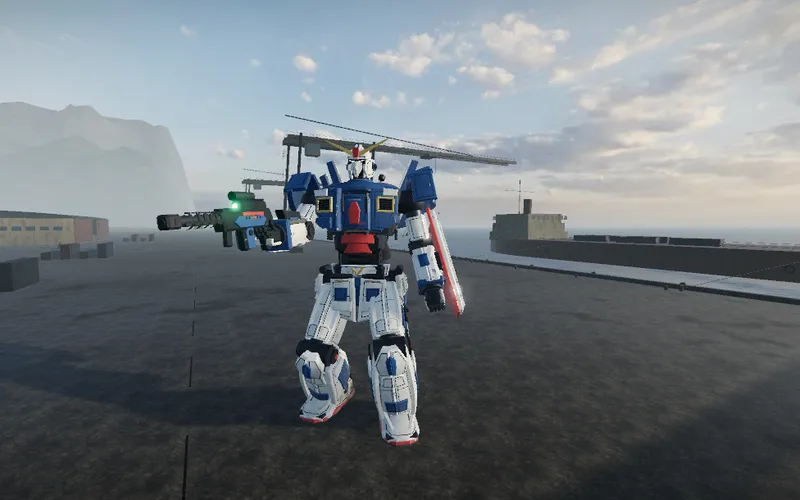
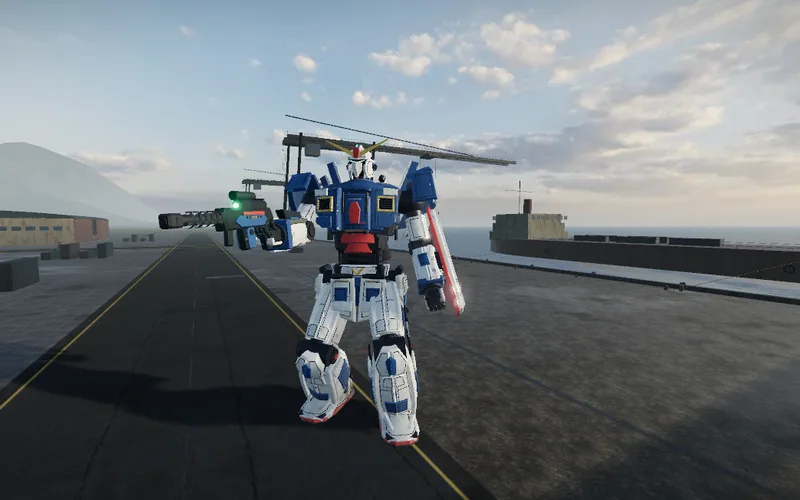
Improve harbor paving, warehouse scale and landscape materials

diff --git a/game/mech/lastline/map.js b/game/mech/lastline/map.js
@@ -6,7 +6,49 @@ import { JAPANESE_FONT, PORT_LABELS } from '../urban.js';
 
 export const SHORE = 680;
 export function buildMap(scene, mats, solid, PL, A, world) {
-  mats = { ...mats, portGlass: new THREE.MeshStandardMaterial({ color: 0x263c43, roughness: .26, metalness: .18, vertexColors: true }) };
+  // 港區地坪共用既有掃描圖；道路、排水與標線在同一個材質內，沒有反射攝影機。
+  const ground = mats.floor.clone(), compileFloor = mats.floor.onBeforeCompile;
+  ground.name = 'harbor-ground'; ground.userData.tile = mats.floor.userData.tile || 4;
+  ground.onBeforeCompile = sh => {
+    compileFloor(sh);
+    Object.assign(sh.uniforms, { portAsphalt: { value: A.asphD }, portAsphaltN: { value: A.asphN } });
+    sh.vertexShader = sh.vertexShader.replace('#include <common>', '#include <common>\nvarying vec2 vPort;')
+      .replace('#include <begin_vertex>', '#include <begin_vertex>\nvPort=(modelMatrix*vec4(transformed,1.0)).xz;');
+    sh.fragmentShader = sh.fragmentShader.replace('#include <common>', `#include <common>
+      varying vec2 vPort; uniform sampler2D portAsphalt, portAsphaltN;
+      float portLine(float d, float width) { float aa=max(fwidth(d),.001); return 1.0-smoothstep(width-aa,width+aa,d); }
+      float portRange(float x, float a, float b) { return smoothstep(a-.3,a+.3,x)*(1.0-smoothstep(b-.3,b+.3,x)); }`)
+      .replace('#include <map_fragment>', `#include <map_fragment>
+        float roadH=portLine(abs(vPort.y+120.0),12.0)*portRange(vPort.x,174.0,612.0);
+        float roadV=portLine(abs(vPort.x-360.0),12.0)*portRange(vPort.y,-120.0,120.0);
+        float roadExit=portLine(abs(vPort.x-600.0),12.0)*portRange(vPort.y,-580.0,290.0);
+        float roadCross=portLine(abs(vPort.y-120.0),12.0)*portRange(vPort.x,348.0,612.0);
+        float portRoad=max(max(roadH,roadV),max(roadExit,roadCross));
+        vec2 panel=mod(vPort+vec2(2.0,3.0),vec2(6.0,8.0));
+        float joint=max(portLine(min(panel.x,6.0-panel.x),.018),portLine(min(panel.y,8.0-panel.y),.018))*(1.0-portRoad);
+        vec3 pavement=mix(sampledDiffuseColor.rgb,texture2D(portAsphalt,vPort/7.0).rgb*vec3(.62,.65,.68),portRoad);
+        diffuseColor.rgb/=max(sampledDiffuseColor.rgb,vec3(.005));
+        diffuseColor.rgb*=pavement*(1.0-joint*.38);
+        float tyre=max(roadH*portLine(abs(abs(vPort.y+120.0)-3.2),.55),roadV*portLine(abs(abs(vPort.x-360.0)-3.2),.55));
+        tyre=max(tyre,max(roadExit*portLine(abs(abs(vPort.x-600.0)-3.2),.55),roadCross*portLine(abs(abs(vPort.y-120.0)-3.2),.55)));
+        diffuseColor.rgb*=1.0-tyre*.16;
+        // 岸邊長排水溝與鋼格柵；以實際尺寸繪製，遠處由導數抗鋸齒。
+        float drain=portLine(abs(vPort.x-623.0),.22);
+        float grate=portLine(abs(mod(vPort.y,.32)-.16),.025);
+        diffuseColor.rgb=mix(diffuseColor.rgb,vec3(.025,.032,.034),drain*(1.0-grate*.65));
+        float edge=max(roadExit*portLine(abs(abs(vPort.x-600.0)-10.8),.09),roadH*portLine(abs(abs(vPort.y+120.0)-10.8),.09));
+        vec2 bay=mod(vPort-vec2(215.0,-66.0),vec2(20.0,26.0));
+        float loading=portRange(vPort.x,215.0,525.0)*portRange(vPort.y,-66.0,64.0)*(1.0-portRoad);
+        float paint=max(edge,loading*max(portLine(min(bay.x,20.0-bay.x),.07),portLine(min(bay.y,26.0-bay.y),.07)));
+        diffuseColor.rgb=mix(diffuseColor.rgb,vec3(.43,.30,.07),paint*.75);`)
+      .replace('#include <roughnessmap_fragment>', `#include <roughnessmap_fragment>
+        roughnessFactor=mix(roughnessFactor,.91,portRoad);
+        roughnessFactor=mix(roughnessFactor,.82,paint);`)
+      .replace('vec3 mapN = texture2D( normalMap, vNormalMapUv ).xyz * 2.0 - 1.0;', `vec3 mapN = texture2D( normalMap, vNormalMapUv ).xyz * 2.0 - 1.0;
+        mapN=mix(mapN,texture2D(portAsphaltN,vPort/7.0).xyz*2.0-1.0,portRoad);`);
+  };
+  ground.customProgramCacheKey = () => 'harbor-ground-v1';
+  mats = { ...mats, portGround: ground, portGlass: new THREE.MeshStandardMaterial({ color: 0x263c43, roughness: .26, metalness: .18, vertexColors: true }) };
   const b = new Builder(mats, solid);
   const M = { b, lights: [], zones: {}, marks: {}, targets: {}, items: {}, layout: 'harbor-v1' };
   const V = (x, z, y = 0) => new THREE.Vector3(x, y, z);
@@ -124,12 +166,17 @@ export function buildMap(scene, mats, solid, PL, A, world) {
   // 港區地面取代住宅道路網；海側地形裁掉，露出同一片海面。
   if (world) {
     world.battlefield = 'harbor'; world.terrainMesh.material.userData.battlefield.value = 6;
-    const coast = x => { const t = THREE.MathUtils.clamp((x - 180) / (SHORE - 180), 0, 1); return 1 - t * t * (3 - 2 * t); };
+    const coast = (x, z) => {
+      // 遠方山麓逐步伸向海岸；不能把數公里外的整座山壓在 500 m 內，形成直立切面。
+      const start = 180 - 1800 * THREE.MathUtils.smoothstep(Math.abs(z), 650, 2100);
+      const t = THREE.MathUtils.clamp((x - start) / (SHORE - start), 0, 1);
+      return 1 - t * t * (3 - 2 * t);
+    };
     const height = world.height.bind(world);
-    world.height = (x, z) => x > SHORE ? -10 : height(x, z) * coast(x);
+    world.height = (x, z) => x > SHORE ? -10 : height(x, z) * coast(x, z) * .68;
     for (const mesh of [world.terrainMesh, world.mountainMesh]) {
       const p = mesh.geometry.attributes.position;
-      for (let i = 0; i < p.count; i++) p.setY(i, p.getY(i) * coast(p.getX(i)));
+      for (let i = 0; i < p.count; i++) p.setY(i, p.getY(i) * coast(p.getX(i), p.getZ(i)) * .68);
       p.needsUpdate = true; mesh.geometry.computeVertexNormals(); mesh.geometry.computeBoundingSphere();
     }
     const floor = solid.floorAt.bind(solid);
@@ -146,7 +193,7 @@ export function buildMap(scene, mats, solid, PL, A, world) {
     scene.environmentIntensity = .48;
     world.skyDome.material.uniforms.fogCol.value.copy(scene.fog.color);
   }
-  box('floor', -250, SHORE, -.18, .025, -590, 320, { solid: false });
+  b.B.portGround.quad([-250,.025,320], [SHORE,.025,320], [SHORE,.025,-590], [-250,.025,-590], [0,1,0]);
   // 海堤有厚度與潮痕，沒有穿越海面的隱形地板。
   box('concrete', SHORE - 1.2, SHORE, -4, .85, -590, 320, { tint: [.48, .53, .54] });
   const water = new THREE.MeshStandardMaterial({ color: 0x274a59, roughness: .32, metalness: .28,
@@ -187,10 +234,21 @@ export function buildMap(scene, mats, solid, PL, A, world) {
   }
   shed(-208, -152, -205, -130, 8, 'z', 3);
   shed(-149, -113, -122, -78, 6.2, 'x', 1.8);
-  for (const [x, z] of [[-197, -182], [-163, -170], [-195, -149], [-140, -89]]) {
-    prop('steel_frame_shelves_01', x, z);
-    for (const dx of [-1.4, 0, 1.4]) for (const y of [1, 2.1]) prop('cardboard_box_01', x + dx, z, y, .1 * dx, { solid: false });
+  for (const [x, z] of [[-197, -182], [-163, -170], [-195, -149], [-140, -89], [-197, -176], [-197, -170], [-162, -158], [-162, -149]]) {
+    // 掃描貨架原始高度 21.4 m，縮成 3 m；箱底對齊四層承板，避免穿屋頂與懸空。
+    prop('steel_frame_shelves_01', x, z, 0, 0, { scale: .14 });
+    for (const dx of [-.47, 0, .47]) for (const y of [.16, .87, 1.58, 2.29])
+      prop('cardboard_box_01', x + dx, z, y, .1 * dx, { solid: false, scale: .92 + ((y * 100 + x) % 3 + 3) % 3 * .06 });
     prop('wooden_military_crate', x + 2, z + 3); prop('hand_truck', x + 3, z - 1);
+  }
+  for (const z of [-191, -179, -167, -155, -143]) {
+    beam([-207,7.7,z],[-153,7.7,z],.11);
+    beam([-207,7.7,z],[-180,10.7,z],.07); beam([-180,10.7,z],[-153,7.7,z],.07);
+    for (const x of [-194,-166]) {
+      beam([x,7.7,z],[x,6.9,z],.018);
+      b.deco('metal',x-.65,x+.65,6.79,6.93,z-.11,z+.11,{tint:[.65,.67,.63]});
+      b.B.portGlass.quad([x-.6,6.78,z-.08],[x+.6,6.78,z-.08],[x+.6,6.78,z+.08],[x-.6,6.78,z+.08],[0,-1,0],[1,1,1,1],null,[1.8,1.9,1.7]);
+    }
   }
   prop('concrete_road_barrier_02', -177, -216); prop('covered_car', -158, -225, 0, .2);
   for (const [x, z] of [[-203, -192], [-156, -182], [-204, -143], [-90, -122], [-46, -92], [65, 56]]) {
@@ -268,8 +326,8 @@ export function buildMap(scene, mats, solid, PL, A, world) {
     b.deco('floor', x, x + 2 + i % 7, .031, .034, z, z + 1 + i % 4, { tint: [.65, .68, .69] });
   }
   for (const z of [-148, -92, 96, 144]) for (let x = 180; x < 580; x += 35) {
-    b.deco('metal', x, x + 22, .033, .036, z, z + .12, { tint: [.71, .58, .32] });
-    b.deco('metal', x, x + .12, .033, .036, z, z + 8, { tint: [.71, .58, .32] });
+    b.deco('floor', x, x + 22, .033, .036, z, z + .12, { tint: [.71, .58, .32] });
+    b.deco('floor', x, x + .12, .033, .036, z, z + 8, { tint: [.71, .58, .32] });
   }
   for (const z of [-240, -60, 210]) {
     // 兩腿落在道路外側，橫樑與斜拉桁架跨過岸邊。
@@ -318,8 +376,8 @@ export function buildMap(scene, mats, solid, PL, A, world) {
   }
 
   // 疏散路保留寬度給兩輛車；標線、岸邊護柱與防波堤消波塊都是共用材質。
-  for (let x = 190; x < 585; x += 14) b.deco('metal', x, x + 7, .03, .035, -120.06, -119.94, { tint: [.7, .72, .65] });
-  for (let z = -570; z < 280; z += 14) b.deco('metal', 599.94, 600.06, .03, .035, z, z + 7, { tint: [.7, .72, .65] });
+  for (let x = 190; x < 585; x += 14) b.deco('floor', x, x + 7, .03, .035, -120.06, -119.94, { tint: [.7, .72, .65] });
+  for (let z = -570; z < 280; z += 14) b.deco('floor', 599.94, 600.06, .03, .035, z, z + 7, { tint: [.7, .72, .65] });
   for (let z = -570; z < 280; z += 18) {
     pipe(676, 0, z, .3, .8, 'rust');
     const g = new THREE.CylinderGeometry(.6, 1.3, 5, 5).rotateZ(.8);

diff --git a/game/mech/env.js b/game/mech/env.js
@@ -376,8 +376,10 @@ function terrainMaterial(A) {
         float treeline = 0.0;
         if (mountain > 0.001) {
           float canopy = tn(vTW.xz / 8.0);
+          float facing = dot(terrainN.xz, normalize(vec2(-.6,.8))) * .5 + .5;
           vec3 forest = mix(vec3(0.038,0.072,0.028), vec3(0.10,0.145,0.048), macro);
-          forest *= mix(0.78, 1.22, canopy);
+          forest *= mix(0.72, 1.28, canopy) * mix(.78,1.12,facing);
+          forest = mix(forest,forest*vec3(1.2,1.08,.77),smoothstep(.52,.72,dry)*.35);
           float meadow = smoothstep(0.50, 0.72, dry) * (1.0 - smoothstep(0.08, 0.25, slope));
           forest = mix(forest, grass * vec3(0.62,0.72,0.42), meadow * 0.65);
           treeline = smoothstep(1050.0, 1580.0, vTW.y + (macro - 0.5) * 180.0);
@@ -394,6 +396,7 @@ function terrainMaterial(A) {
         // 冷灰岩壁、斜向岩層、雨水侵蝕紋；三面投影避免陡坡拉伸。
         float strata = sin(vTW.y * 0.095 + vTW.x * 0.018 + vTW.z * 0.012 + macro * 9.0) * 0.5 + 0.5;
         rock *= mix(vec3(0.42,0.46,0.49),vec3(.78,.81,.80),surfaceReady) * mix(0.90, 1.04, strata) * mix(0.86, 1.10, dry);
+        rock *= 1.0 - smoothstep(.48,.70,dry) * smoothstep(.12,.42,slope) * .15;
         float rk = smoothstep(0.20, 0.48, slope + (macro - 0.5) * 0.14 + treeline * 0.14);
         if (battlefield > 3.5 && battlefield < 4.5) grass = mix(grass, texture2D(rubD, vTW.xz / 14.0).rgb * vec3(0.85,0.63,0.40), 0.85);
         if (battlefield > 1.5 && battlefield < 2.5) grass *= vec3(0.65,0.83,0.64);
@@ -437,7 +440,8 @@ function terrainMaterial(A) {
         float roadWear = smoothstep(0.3, 0.7, dry);
         float paintWear = 0.55 + 0.45 * smoothstep(0.2, 0.7, tn(vTW.xz * 2.0));
         G.zw *= paintWear;
-        vec3 roadC = asph * (1.0 - min(wheel, 1.0) * 0.12);
+        float roadDamp = smoothstep(.48,.63,dry) * (1.0-smoothstep(.42,.62,macro));
+        vec3 roadC = asph * (1.0 - min(wheel, 1.0) * 0.12) * (1.0-roadDamp*.14);
         roadC = mix(roadC, vec3(0.62), G.z * 0.85 * (0.75 + 0.25 * tn(vTW.xz * 3.0)));
         roadC = mix(roadC, vec3(0.62, 0.45, 0.10), G.w * 0.8);
         base = mix(base, roadC, G.x);
@@ -456,6 +460,7 @@ function terrainMaterial(A) {
         roughnessFactor = mix(0.72 + rA * 0.28, mix(rG, 0.82 + strata * 0.12, rk), isGrass);
         roughnessFactor = mix(roughnessFactor, 0.46 + roadWear * 0.18, G.x * min(wheel, 1.0) * 0.7);
         roughnessFactor = mix(roughnessFactor, 0.55, G.z * 0.6);
+        roughnessFactor = mix(roughnessFactor,.32,roadDamp*G.x*.65);
       `)
       .replace('vec3 mapN = texture2D( normalMap, vNormalMapUv ).xyz * 2.0 - 1.0;', `
         vec3 nG = texture2D( normalMap, vNormalMapUv ).xyz * 2.0 - 1.0;
@@ -484,7 +489,7 @@ function terrainMaterial(A) {
       .replace('#include <fog_fragment>', `#include <fog_fragment>
         #ifdef USE_FOG
           // 高處仍有空氣散射：補足高度霧在山頂過薄、遠近山黏在一起的問題。
-          float mountainAir = (1.0 - exp(-length(vTW - cameraPosition) * (battlefield > .5 ? .000045 : .000095))) * mountain;
+          float mountainAir = (1.0 - exp(-max(0.0,length(vTW - cameraPosition)-1800.0) * .00007)) * mountain;
           vec3 air = mix(vec3(0.43,0.51,0.59), FOG_SUN_COL, pow(max(dot(normalize(vTW - cameraPosition), FOG_SUN_DIR),0.0),7.0) * 0.55);
           gl_FragColor.rgb = mix(gl_FragColor.rgb, air, mountainAir);
         #endif`);

diff --git a/game/mech/dev/review.js b/game/mech/dev/review.js
@@ -15,7 +15,7 @@ async function load(path, query = '') {
   html = html.replace(/<base href="[^"]+">/, '');
   html = html.replace(/(<script type="importmap">)([\s\S]*?)(<\/script>)/, (_, a, json, b) => {
     const map = JSON.parse(json);
-    for (const file of ['urban.js', 'anim.js', 'env.js', 'stages.js', 'battlefields.js', 'fieldart.js', 'encounter.js', 'post.js', 'roofline.js', 'mechs.js', 'combat.js', 'cockpit.js', 'zero/map.js', 'zero/guns.js', 'zero/viewmodel.js', 'zero/main.js', 'zero/hud.js', 'zero/sfx.js', 'zero/mech6.js', 'lastline/map.js', 'lastline/script.js', 'lastline/mission.js', 'lastline/convoy.js', 'lastline/escort.mjs']) {
+    for (const file of ['urban.js', 'anim.js', 'env.js', 'stages.js', 'battlefields.js', 'fieldart.js', 'encounter.js', 'post.js', 'roofline.js', 'mechs.js', 'combat.js', 'cockpit.js', 'zero/kit.js', 'zero/map.js', 'zero/guns.js', 'zero/viewmodel.js', 'zero/main.js', 'zero/hud.js', 'zero/sfx.js', 'zero/mech6.js', 'lastline/map.js', 'lastline/script.js', 'lastline/mission.js', 'lastline/convoy.js', 'lastline/escort.mjs']) {
       const url = new URL('/game/mech/' + file, location.href).href;
       for (const key of Object.keys(map.imports)) if (new URL(key, entryBase).href === url) delete map.imports[key];
       map.imports[url] = url + '?qa=' + revision;
@@ -606,8 +606,13 @@ async function harborArt() {
   await load('/game/mech/lastline/index.html', '?mute&god&ch=1&all&fps=0');
   renderer = win.__renderer; post = { render: () => win.__step(1) };
   win.__G.player.reset(new win.__T.Vector3(-180, 0, -193), 0); win.__step(3);
+  const map=win.__map, shelves=win.__solid.list.filter(b=>b.x0<-130 && b.y1>2.8 && b.y1<3.2 && b.x1-b.x0<2 && b.z1-b.z0<1);
+  assert(shelves.length===8,'八座港區貨架為三公尺高，貨箱落在承板上');
+  assert(map.triangles<120000 && map.meshes.length<=9,'港區合併幾何維持十二萬三角形，至多九個材質網格');
   await save('lastline-customs', true);
+  const footChecks=[...result];
   await load('/game/mech/lastline/index.html', '?mute&ch=4&all&fps=0'); await wait(() => win.__m6); win.__step(200);
+  result.unshift(...footChecks);
   const M = win.__m6, C = M.combat, camera = C.camera, world = win.__world;
   renderer = win.__renderer; post = { render: () => C.post.render(1) };
   M.player.pos.set(610, 0, 90); M.player.yaw = -.6; M.player.vel.set(0, 0, 0); M.hero.legYaw = M.player.yaw; M.hero.motion.yawPrev = null; M.tick(.016);
@@ -618,7 +623,7 @@ async function harborArt() {
   camera.position.set(550, 36, -300); camera.lookAt(650, 14, -450); world.followShadow(camera.position);
   await save('lastline-breakwater', true);
   assert(errors.length === 0, '海關、港區與防波堤實際畫面沒有渲染錯誤');
-  report.textContent = JSON.stringify({ checks: result, memory: renderer.info.memory, errors }, null, 2); state.textContent = '北濱港美術通過';
+  report.textContent = JSON.stringify({ checks: result, staticTriangles:map.triangles, staticMeshes:map.meshes.length, memory: renderer.info.memory, errors }, null, 2); state.textContent = '北濱港美術通過';
 }
 
 async function japaneseSigns() {

diff --git a/game/mech/lastline/index.html b/game/mech/lastline/index.html
@@ -66,7 +66,7 @@
   @media (max-height:720px) { .logo{font-size:clamp(38px,7vw,72px)} #bar{margin-top:20px} .keys{margin-top:18px} .note{margin-top:14px} }
   @media (max-width:560px) { .keys{font-size:11px;gap:5px 10px;margin-top:15px} .campaign-panel{padding:12px} .campaign-card{padding:20px} }
 </style>
-<script type="importmap">{"imports":{"../urban.js":"../urban.js?v=4","three":"../../lib/three.module.js","three/addons/":"../../lib/addons/","../roofline.js":"../roofline.js?v=2","../env.js":"../env.js?v=11","../battlefields.js":"../battlefields.js?v=4","../fieldart.js":"../fieldart.js?v=3","../encounter.js":"../encounter.js?v=2","./mech6.js":"./mech6.js?v=5","../anim.js":"../anim.js?v=2","../combat.js":"../combat.js?v=3","../tactics.js":"../tactics.js?v=2","./map.js":"./map.js?v=4","./ai.js":"./ai.js?v=2","../lastline/map.js":"../lastline/map.js?v=1","../lastline/script.js":"../lastline/script.js?v=3","../lastline/mission.js":"../lastline/mission.js?v=3","../lastline/convoy.js":"../lastline/convoy.js?v=2","../lastline/escort.mjs":"../lastline/escort.mjs?v=3"}}</script>
+<script type="importmap">{"imports":{"../urban.js":"../urban.js?v=4","three":"../../lib/three.module.js","three/addons/":"../../lib/addons/","../roofline.js":"../roofline.js?v=2","../env.js":"../env.js?v=12","../battlefields.js":"../battlefields.js?v=4","../fieldart.js":"../fieldart.js?v=3","../encounter.js":"../encounter.js?v=2","./mech6.js":"./mech6.js?v=6","../anim.js":"../anim.js?v=2","../combat.js":"../combat.js?v=3","../tactics.js":"../tactics.js?v=2","./kit.js":"./kit.js?v=2","./map.js":"./map.js?v=4","./ai.js":"./ai.js?v=2","../lastline/map.js":"../lastline/map.js?v=2","../lastline/script.js":"../lastline/script.js?v=3","../lastline/mission.js":"../lastline/mission.js?v=3","../lastline/convoy.js":"../lastline/convoy.js?v=2","../lastline/escort.mjs":"../lastline/escort.mjs?v=3"}}</script>
 </head>
 <body data-campaign="lastline">
 <canvas id="gl"></canvas>

diff --git a/game/mech/zero/kit.js b/game/mech/zero/kit.js
@@ -89,7 +89,7 @@ export function grimeShader(sh, m) {
     #endif
     vGW = ( modelMatrix * gw ).xyz; vGN = mat3( modelMatrix ) * gn;`);
   sh.fragmentShader = sh.fragmentShader.replace('#include <common>', '#include <common>\nuniform sampler2D grimeMap; uniform float grimeK; varying vec3 vGW; varying vec3 vGN;').replace('#include <map_fragment>', `#include <map_fragment>
-    float surfaceDirt = 0.0;
+    float surfaceDirt = 0.0, surfaceWet = 0.0;
     {
       vec3 gn = normalize( vGN ); float wallK = 1.0 - abs( gn.y );
       float al = abs( gn.x ) > abs( gn.z ) ? vGW.z : vGW.x;
@@ -98,9 +98,12 @@ export function grimeShader(sh, m) {
       float st = texture2D( grimeMap, vec2( al * 0.035, vGW.y * 0.06 ) ).g;
       float d = ( 0.52 - mac ) * 0.55 + wallK * smoothstep( 0.52, 0.8, st ) * 0.42 + smoothstep( 0.56, 0.8, bl ) * 0.3;
       surfaceDirt = clamp(d * grimeK, 0.0, 0.65);
+      // 掃描材質上的薄水膜與灰塵交錯，不將整片地面變成鏡子。
+      surfaceWet = (1.0-wallK) * smoothstep(.54,.68,mac) * (1.0-smoothstep(.48,.62,bl));
       diffuseColor.rgb *= clamp( 1.0 - grimeK * d * vec3( 0.88, 1.0, 1.14 ), 0.25, 1.3 );
     }`).replace('#include <roughnessmap_fragment>', `#include <roughnessmap_fragment>
-      roughnessFactor = clamp(roughnessFactor + surfaceDirt * 0.2, 0.08, 1.0);`);
+      roughnessFactor = clamp(roughnessFactor + surfaceDirt * 0.2, 0.08, 1.0);
+      roughnessFactor = mix(roughnessFactor, max(.32,roughnessFactor*.55),surfaceWet*.55);`);
 }
 
 // ---------------------------------------------------------------- 合併幾何

diff --git a/game/mech/zero/index.html b/game/mech/zero/index.html
@@ -53,7 +53,7 @@
   #touch .tb { position: absolute; width: 64px; height: 64px; border-radius: 50%; border: 1px solid rgba(127,243,255,0.5); background: rgba(5,15,20,0.35); color: #cfeff5; font: 600 13px 'Rajdhani', 'Noto Sans TC'; display: flex; align-items: center; justify-content: center; pointer-events: auto; }
   #touch .look { position: absolute; right: 0; top: 0; width: 55%; height: 100%; pointer-events: auto; }
 </style>
-<script type="importmap">{"imports":{"../urban.js":"../urban.js?v=4","three":"../../lib/three.module.js","three/addons/":"../../lib/addons/","../roofline.js":"../roofline.js?v=2","../env.js":"../env.js?v=11","../battlefields.js":"../battlefields.js?v=4","../fieldart.js":"../fieldart.js?v=3","../encounter.js":"../encounter.js?v=2","./mech6.js":"./mech6.js?v=5","../anim.js":"../anim.js?v=2","../combat.js":"../combat.js?v=3","../tactics.js":"../tactics.js?v=2","./map.js":"./map.js?v=4","./ai.js":"./ai.js?v=2"}}</script>
+<script type="importmap">{"imports":{"../urban.js":"../urban.js?v=4","three":"../../lib/three.module.js","three/addons/":"../../lib/addons/","../roofline.js":"../roofline.js?v=2","../env.js":"../env.js?v=12","../battlefields.js":"../battlefields.js?v=4","../fieldart.js":"../fieldart.js?v=3","../encounter.js":"../encounter.js?v=2","./mech6.js":"./mech6.js?v=6","../anim.js":"../anim.js?v=2","../combat.js":"../combat.js?v=3","../tactics.js":"../tactics.js?v=2","./kit.js":"./kit.js?v=2","./map.js":"./map.js?v=4","./ai.js":"./ai.js?v=2"}}</script>
 </head>
 <body>
 <canvas id="gl"></canvas>

diff --git a/game/mech/index.html b/game/mech/index.html
@@ -55,7 +55,7 @@
   #touch .tb { position: absolute; width: 64px; height: 64px; border-radius: 50%; border: 1px solid rgba(127,243,255,0.5); background: rgba(5,15,20,0.35); color: #cfeff5; font: 600 13px 'Rajdhani', 'Noto Sans TC'; display: flex; align-items: center; justify-content: center; pointer-events: auto; }
   #touch .look { position: absolute; right: 0; top: 0; width: 55%; height: 100%; pointer-events: auto; }
 </style>
-<script type="importmap">{"imports":{"./urban.js":"./urban.js?v=4","three":"../lib/three.module.js","three/addons/":"../lib/addons/","./roofline.js":"./roofline.js?v=2","./env.js":"./env.js?v=11","./battlefields.js":"./battlefields.js?v=4","./fieldart.js":"./fieldart.js?v=3","./encounter.js":"./encounter.js?v=2","./anim.js":"./anim.js?v=2","./combat.js":"./combat.js?v=3","./tactics.js":"./tactics.js?v=2","./stages.js":"./stages.js?v=2"}}</script>
+<script type="importmap">{"imports":{"./urban.js":"./urban.js?v=4","three":"../lib/three.module.js","three/addons/":"../lib/addons/","./roofline.js":"./roofline.js?v=2","./env.js":"./env.js?v=12","./battlefields.js":"./battlefields.js?v=4","./fieldart.js":"./fieldart.js?v=3","./encounter.js":"./encounter.js?v=2","./anim.js":"./anim.js?v=2","./combat.js":"./combat.js?v=3","./tactics.js":"./tactics.js?v=2","./stages.js":"./stages.js?v=2"}}</script>
 </head>
 <body>
 <canvas id="gl"></canvas>

diff --git a/game/mech/dev/review.html b/game/mech/dev/review.html
@@ -4,4 +4,4 @@
 <header><b>IRON DUSK · 靜音回歸</b><button id="japaneseSigns">日文招牌</button><button id="harborArt">北濱港場景</button><button id="campaignFoot">續作步兵全流程</button><button id="campaign4">續作車隊全流程</button><button id="campaign5">續作結局</button><button id="campaignArtillery">砲陣結局</button><button id="campaignEdges">存檔與戰敗</button><button id="enemyMotion">敵機重量與動作</button><button id="fields">六種戰鬥場地</button><button id="mech">本篇 10 關</button><button id="zero">前傳 6 章</button><button id="tactics">機甲戰術與劇情</button><button id="infantry">步兵戰術</button><button id="art">人物與機甲</button><button id="hero">主角機</button><button id="city">城市街景</button><button id="mountains">城市山景</button><button id="weapons">前傳武器</button><button id="save">保存畫面</button><span id="state">待命</span></header>
 <iframe id="game" title="靜音遊戲測試"></iframe><div id="captures"></div><pre id="report"></pre>
 <script type="importmap">{"imports":{"three":"../../lib/three.module.js","three/addons/":"../../lib/addons/"}}</script>
-<script type="module" src="./review.js?v=18"></script></html>
+<script type="module" src="./review.js?v=19"></script></html>

diff --git a/games/index.html b/games/index.html
@@ -207,7 +207,7 @@ a:focus-visible{outline:3px solid #ffd84f;outline-offset:3px}
         </section>
         <section class="ep lastline">
           <a class="thumb" href="/game/mech/lastline/" tabindex="-1" aria-hidden="true">
-            <img src="/games/img/iron-dusk-lastline.webp" width="800" height="500" alt="" loading="lazy">
+            <img src="/games/img/iron-dusk-lastline.webp?v=2" width="800" height="500" alt="" loading="lazy">
             <span class="step"><b>3</b>LAST LINE</span>
             <span class="tag"><span class="lang-en">Infantry + mech campaign</span><span class="lang-zh" style="display:none">步兵潛入＋機甲護送</span></span>
           </a>

diff --git a/game/mech/zero/mech6.js b/game/mech/zero/mech6.js
@@ -46,7 +46,7 @@ export async function startMech(X) {
   try { ({ FX } = await import('../fx.js')); } catch (e) { console.warn('[zero] fx.js 載入失敗，改用空殼', e); }
 
   // ---------------------------------------------------------------- 場景換成機體的尺度
-  scene.fog.density = S.LAYOUT === 'harbor-v1' ? 0.00065 : 0.0011;
+  scene.fog.density = S.LAYOUT === 'harbor-v1' ? 0.00035 : 0.0011;
   camera.fov = 70; camera.near = 0.5; camera.far = 6000; camera.updateProjectionMatrix();
   vCam.fov = 70; vCam.near = 0.05; vCam.far = 20; vCam.updateProjectionMatrix();
   const sc = world.sun.shadow.camera;
